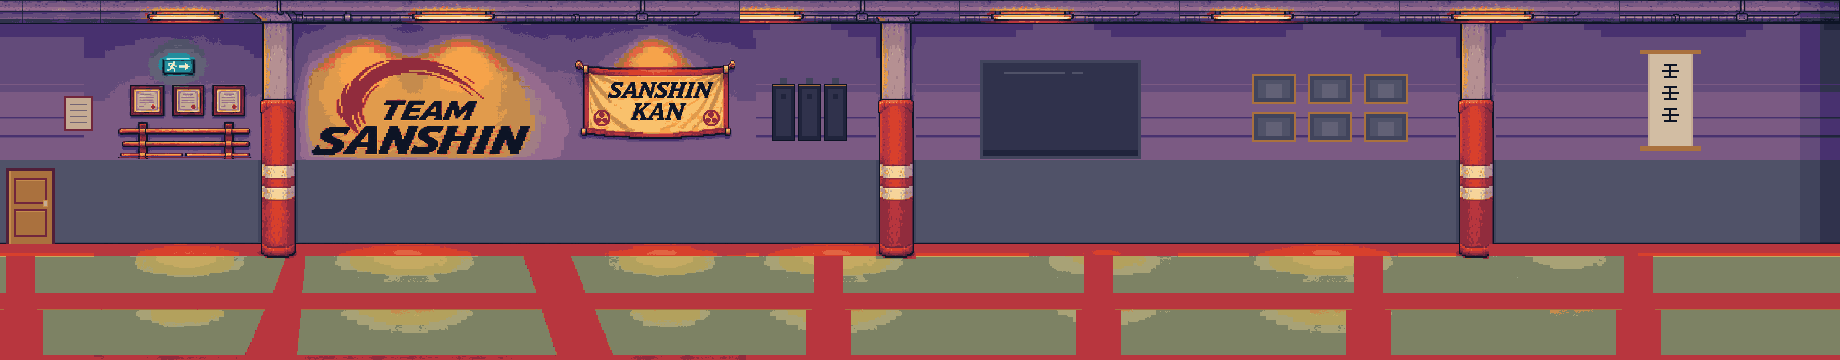
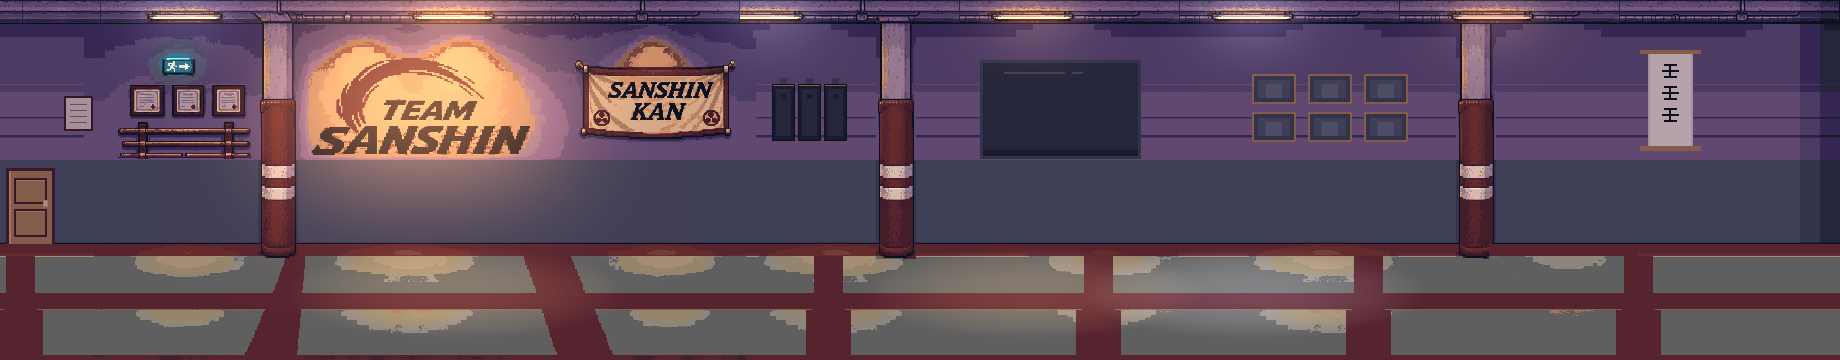
Re-light the street and dojo backgrounds to the approved references
Street: dark midnight navy/purple with vivid magenta and cyan neon tubes on the
drainpipes and around the dojo sign, amber windows and door, wet reflections.
Dojo: calmer and warmer, navy/purple shadows, neutral light under the first
tube, amber glow around the TEAM SANSHIN emblem, muted reds and sage mats.
Each environment follows its own reference; they are not averaged. Geometry,
dimensions, floor row and doorway alignment are unchanged, so no renderer
constant moves. docs/art/lighting holds the references, the pure pixel
pipeline (relight.mjs), the workbench page and a README; the parameters that
produced the assets are the defaults. Previous assets remain in history.

Validation: npm run check passed (86 tests, guard, build); both PNGs opaque at
their exact sizes and accepted by the loader; a keyboard-driven run on the
page's own instance cleared the full level with the new assets.

diff --git a/docs/art/lighting/relight.html b/docs/art/lighting/relight.html
@@ -1,0 +1,41 @@
+<!doctype html>
+<meta charset="utf-8">
+<title>Background re-light workbench</title>
+<style>body{background:#111;color:#ddd;font:12px monospace;margin:8px} canvas{image-rendering:pixelated;display:block;margin:4px 0}</style>
+<p>Re-light workbench: loads the production backgrounds, runs relight.mjs, shows the results. Driven from the console via <code>window.RL</code>.</p>
+<div id="out"></div>
+<script type="module">
+// Dynamic import with a timestamp so an edited relight.mjs is never served from the browser cache.
+const { relightStreet, relightDojo, findPipes, STREET_DEFAULTS, DOJO_DEFAULTS } = await import(`./relight.mjs?t=${Date.now()}`);
+const load = (u) => new Promise((res, rej) => { const i = new Image(); i.onload = () => res(i); i.onerror = () => rej(new Error('load ' + u)); i.src = u + '?t=' + Date.now(); });
+const toImg = (img) => { const c = document.createElement('canvas'); c.width = img.naturalWidth; c.height = img.naturalHeight; const g = c.getContext('2d', { willReadFrequently: true }); g.drawImage(img, 0, 0); const d = g.getImageData(0, 0, c.width, c.height); return { w: c.width, h: c.height, data: d.data }; };
+const toCanvas = (img) => { const c = document.createElement('canvas'); c.width = img.w; c.height = img.h; c.getContext('2d').putImageData(new ImageData(img.data, img.w, img.h), 0, 0); return c; };
+const street = toImg(await load('../../../assets/backgrounds/street.png'));
+const dojo = toImg(await load('../../../assets/backgrounds/dojo.png'));
+// Drainpipes at the building joints that carry neon tubes (measured on street.png), with the colour
+// each takes; the pipe right of the dojo is cyan and the one left of its bay magenta, as in the reference.
+const STREET_GEOMETRY = {
+  floorRow: 244, kerbRow: 300, groundFloorTop: 120, signBox: [1783, 100, 1937, 136], doorBox: [1816, 140, 1904, 244],
+  pipes: [[221, 226], [591, 598], [800, 801], [1097, 1103], [1235, 1236], [1434, 1440], [1579, 1580], [1776, 1776], [1939, 1946]],
+  pipeColours: ['cyan', 'magenta', 'cyan', 'magenta', 'cyan', 'magenta', 'cyan', 'magenta', 'cyan'],
+  coolZones: [[1942, 2000]], // the pale yellow building is not a light source
+};
+// Ceiling tube fixtures measured on dojo.png (bright runs in rows 4-18); the first-screen tube is the
+// neutral one and the tube over the TEAM SANSHIN emblem is warm, as in the reference. The rest alternate.
+const DOJO_GEOMETRY = {
+  floorRow: 244, emblemBox: [300, 36, 545, 170],
+  tubes: [
+    { x0: 153, x1: 216, y0: 4, y1: 18, warm: false }, { x0: 419, x1: 489, y0: 4, y1: 18, warm: true },
+    { x0: 740, x1: 798, y0: 4, y1: 18, warm: false }, { x0: 998, x1: 1068, y0: 4, y1: 18, warm: true },
+    { x0: 1218, x1: 1288, y0: 4, y1: 18, warm: false }, { x0: 1456, x1: 1528, y0: 4, y1: 18, warm: true },
+  ],
+};
+window.RL = {
+  street, dojo, STREET_DEFAULTS, DOJO_DEFAULTS, STREET_GEOMETRY, DOJO_GEOMETRY, findPipes, toCanvas,
+  runStreet(params = {}, geometry = {}) { return relightStreet(street, { ...STREET_GEOMETRY, ...geometry }, params); },
+  runDojo(params = {}, geometry = {}) { return relightDojo(dojo, { ...DOJO_GEOMETRY, ...geometry }, params); },
+  show(img, label) { const out = document.getElementById('out'); const p = document.createElement('p'); p.textContent = label; out.append(p, toCanvas(img)); },
+  async post(img, name) { const c = toCanvas(img); const blob = await new Promise((r) => c.toBlob(r, 'image/png')); return (await fetch('http://127.0.0.1:8111/save?name=' + name, { method: 'POST', body: blob })).text(); },
+};
+document.getElementById('out').textContent = 'ready: street ' + street.w + 'x' + street.h + ', dojo ' + dojo.w + 'x' + dojo.h;
+</script>

diff --git a/docs/art/lighting/README.md b/docs/art/lighting/README.md
@@ -1,0 +1,33 @@
+# Background lighting pass
+
+Re-lights the two production backgrounds to the approved colour and lighting references
+received 8 November 2026. The geometry of both strips is untouched (same dimensions,
+architecture, floor row, doorway and sign positions); only colour and light change, so no
+renderer constant moves.
+
+| Environment | Reference | Treatment |
+|---|---|---|
+| Street (`assets/backgrounds/street.png`, 2000 x 360) | `ref-street-neon.webp`, "GATAN · LJUSSTUDIE" | Very dark midnight navy/purple surfaces that fall away toward the roofline; vivid magenta and cyan neon tubes on the drainpipes at the building joints and a magenta tube around the SANSHIN KAN KARATE sign, each throwing a broad coloured wash over its facade; warm amber shop windows, lamps and the dojo door; cyan/magenta/amber reflections smeared down the wet pavement and road. |
+| Dojo (`assets/backgrounds/dojo.png`, 1840 x 360) | `ref-dojo-muted.webp`, "DOJON · DÄMPAD NEON" | Calmer and warmer: navy/purple shadows that keep the wall and floor detail, soft nearly neutral light under the first-screen tube, warm amber glow around the TEAM SANSHIN emblem and under the tube above it, muted natural reds on the padded pillars and mat borders, sage/grey-green mat centres, matte materials, no neon. |
+
+The two treatments are deliberately different: the street is dark and vivid, the dojo is
+restrained. Neither reference's character, score, arrow, caption or border is in the assets.
+
+## Reproducing
+
+`relight.mjs` is pure pixel code (no DOM). `relight.html` loads the production PNGs, runs it
+and exposes `window.RL` for driving from a console; it needs to be served over http (for
+example `npm start`, then `/docs/art/lighting/relight.html`). The parameters that produced
+the shipped assets are the defaults in `relight.mjs`; the measured geometry (sign box,
+drainpipe columns and their tube colours, the yellow building's cool zone, the dojo tube
+fixtures and emblem box) is in `relight.html`.
+
+The inputs were the previous production assets:
+
+| Input | SHA-256 |
+|---|---|
+| street.png (street-v1 delivery) | a8dcc7c05dfcd488510ed7895afb10638a25857dc5baf8e9206b39aa5732a934 |
+| dojo.png (approved full dojo) | 8db7254d4f917504fcf4acc34b7e92b7b7a6383f2dba40bc550333f70af58ce8 |
+
+Those earlier versions remain in git history and can be restored by reverting the lighting
+commit.

diff --git a/assets/backgrounds/dojo.md b/assets/backgrounds/dojo.md
@@ -9,7 +9,7 @@ background loader is integrated (coordination with the other developer first).
 | File | `assets/backgrounds/dojo.png` |
 | Dimensions | 1840 x 360 px, RGBA, every pixel opaque |
 | Colours | 41 (the environment palette; none of the Tamas sheet's 30 colours) |
-| SHA-256 | 8db7254d4f917504fcf4acc34b7e92b7b7a6383f2dba40bc550333f70af58ce8 |
+| SHA-256 | 64da3efe258eebb19f62a205ed2a8f36bea343e7aa44c1ee4db496e8ff66e655 (lighting pass of 8 November 2026, muted warm treatment; the approved full dojo it was made from is 8db7254d…, see `docs/art/lighting/README.md`) |
 | Placement | world art column 2000 (world x 1000), row 0, drawn 1:1, never scaled |
 | Wall/floor boundary | art row 244 in every column; walkable band rows 244-341; front strip 342-359 |
 | Approved D1 checkpoint | columns 100-739, pixel-identical to `dojo-checkpoint.png` (SHA-256 dcbb8274...) |

diff --git a/assets/backgrounds/street.md b/assets/backgrounds/street.md
@@ -7,7 +7,7 @@ Delivered as `street-artwork-v1` on 8 November 2026, built to the measured brief
 |---|---|
 | File | `assets/backgrounds/street.png` |
 | Dimensions | 2000 x 360 px, RGBA, every pixel opaque |
-| SHA-256 | a8dcc7c05dfcd488510ed7895afb10638a25857dc5baf8e9206b39aa5732a934 |
+| SHA-256 | 85b2da8a96f74ffdf5ba4c5f57d46fc877b94439be5b6da1754e6dbee3ab9a33 (lighting pass of 8 November 2026; the street-v1 delivery it was made from is a8dcc7c0…, see `docs/art/lighting/README.md`) |
 | Placement | world art column 0 (world x 0), row 0, drawn 1:1, never scaled |
 | Wall/pavement boundary | art row 244 (`FLOOR_TOP` 122); walkable feet rows 244-340 |
 | Dojo door leaves | art x 1816-1903, y 140-243 (88 x 104): two 44 px leaves centred on x 1860 (`exit.x` 930) |
